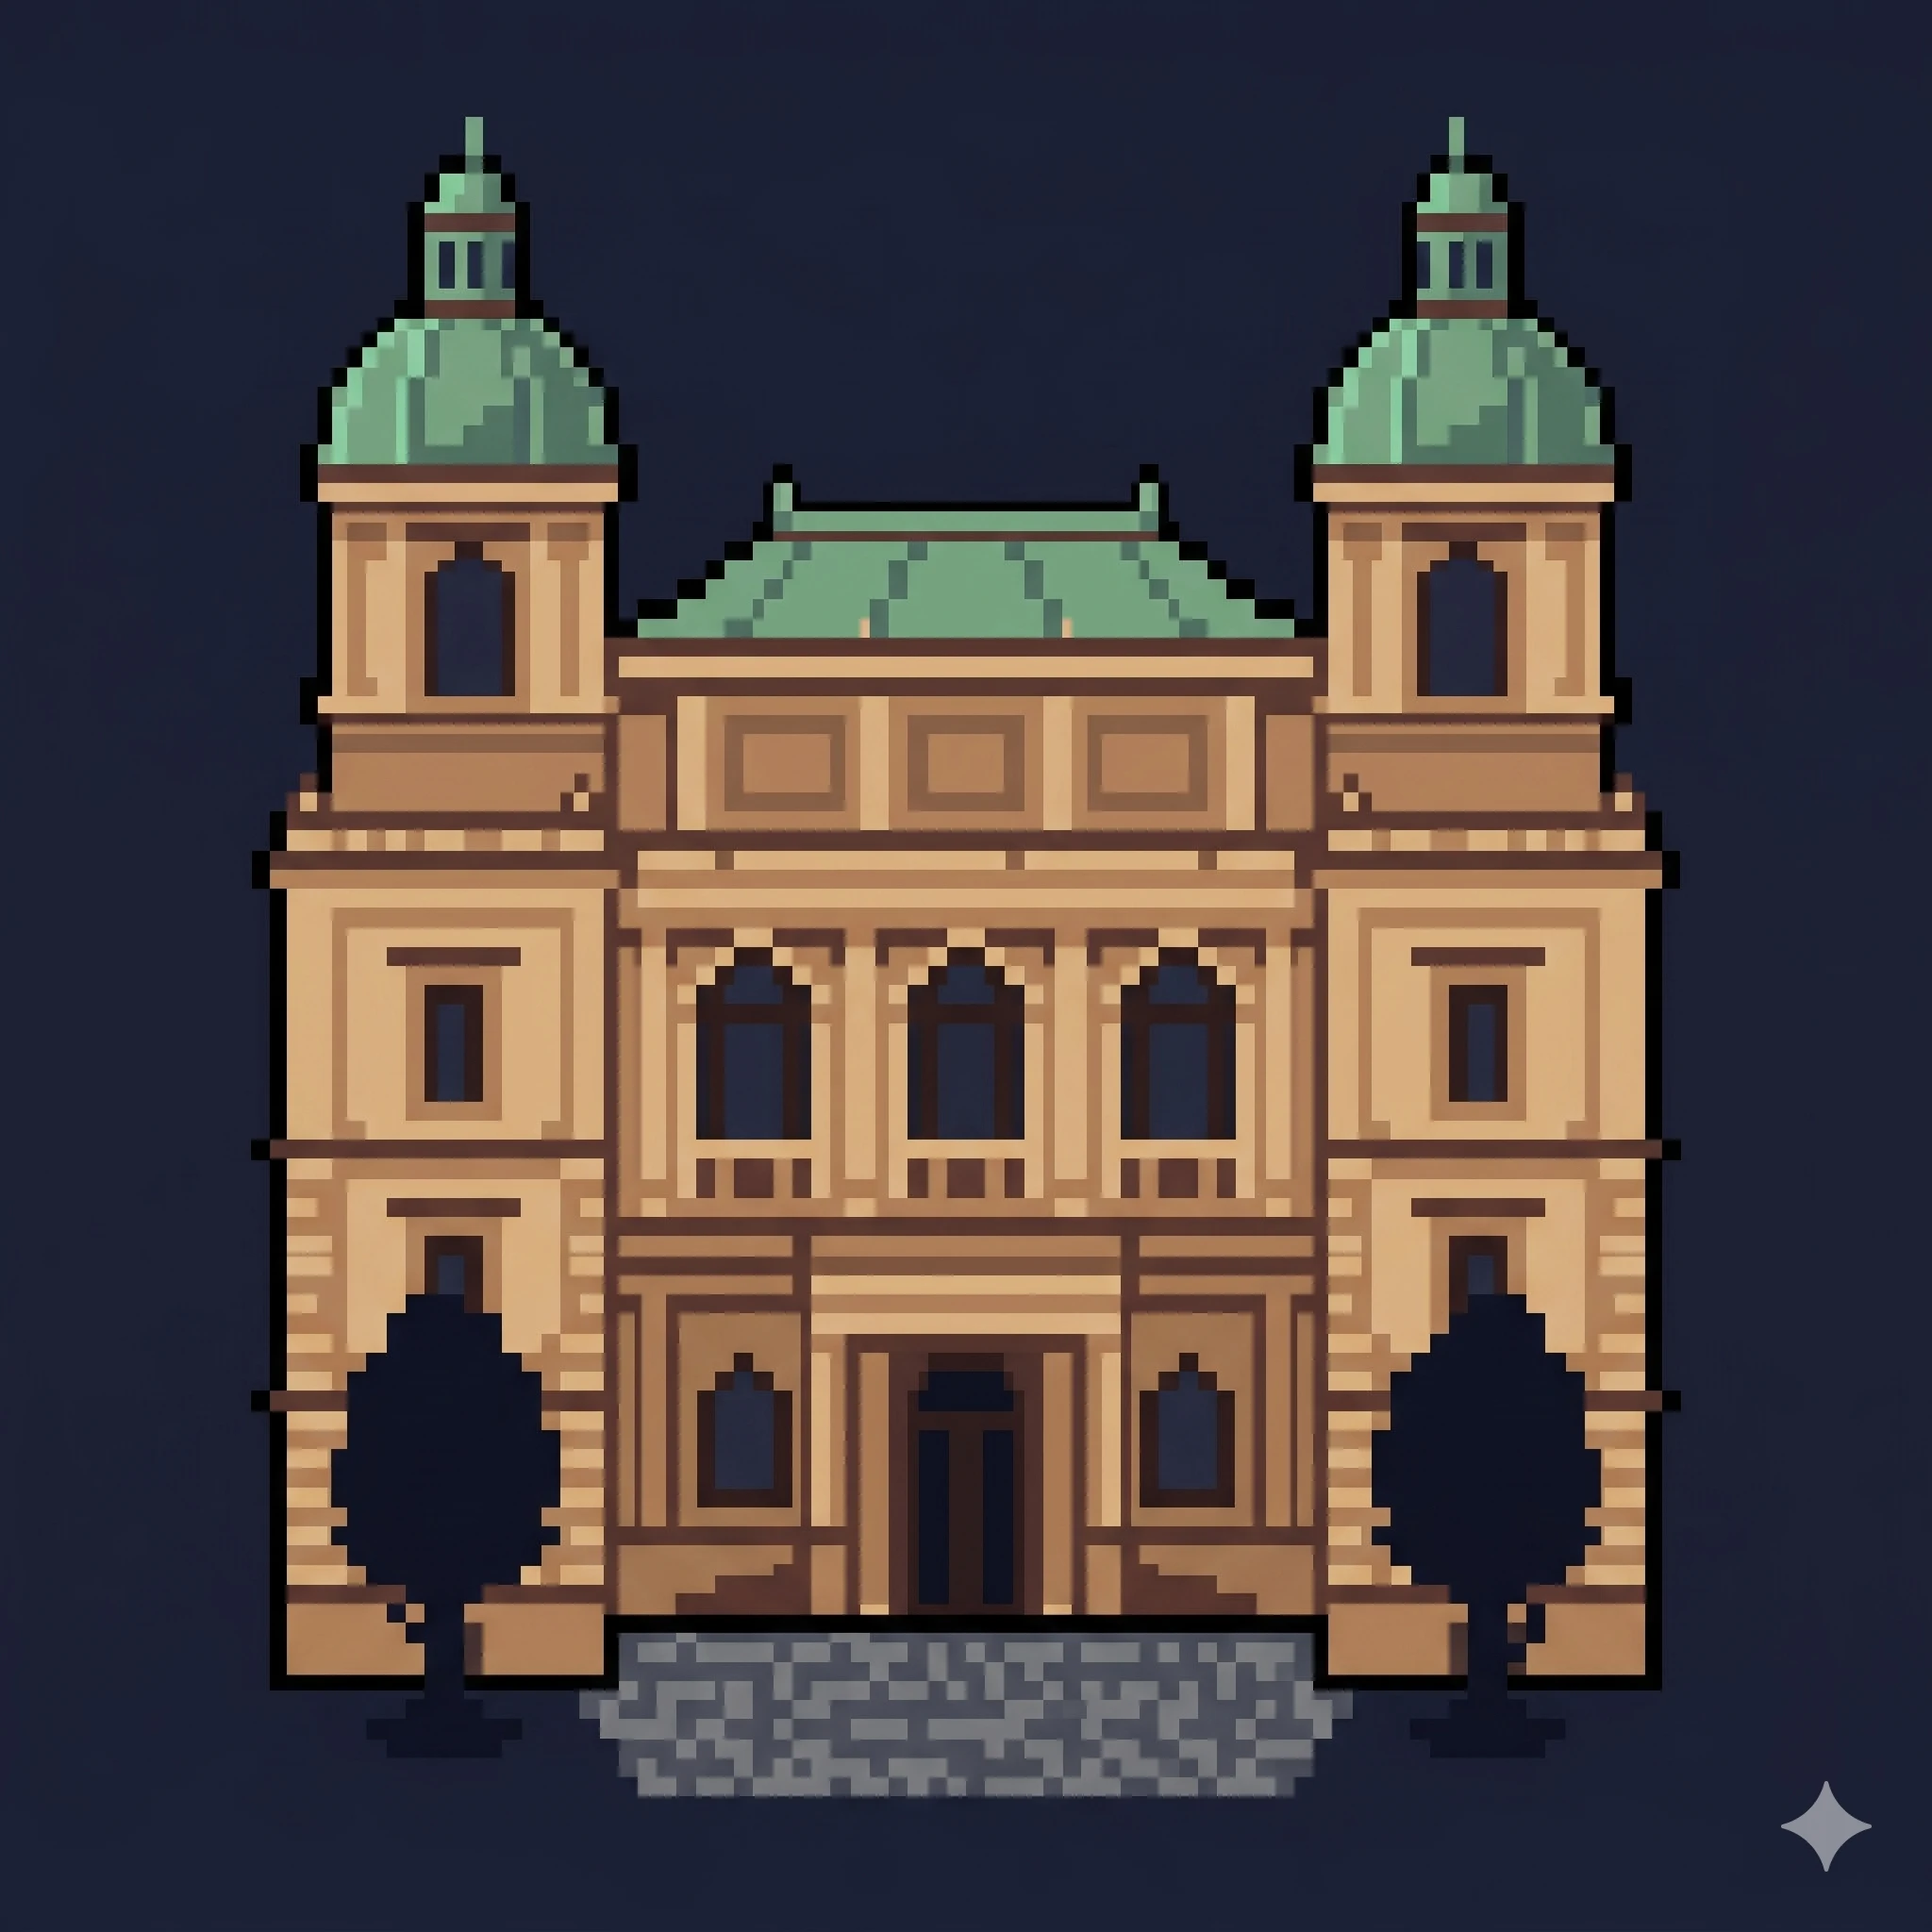
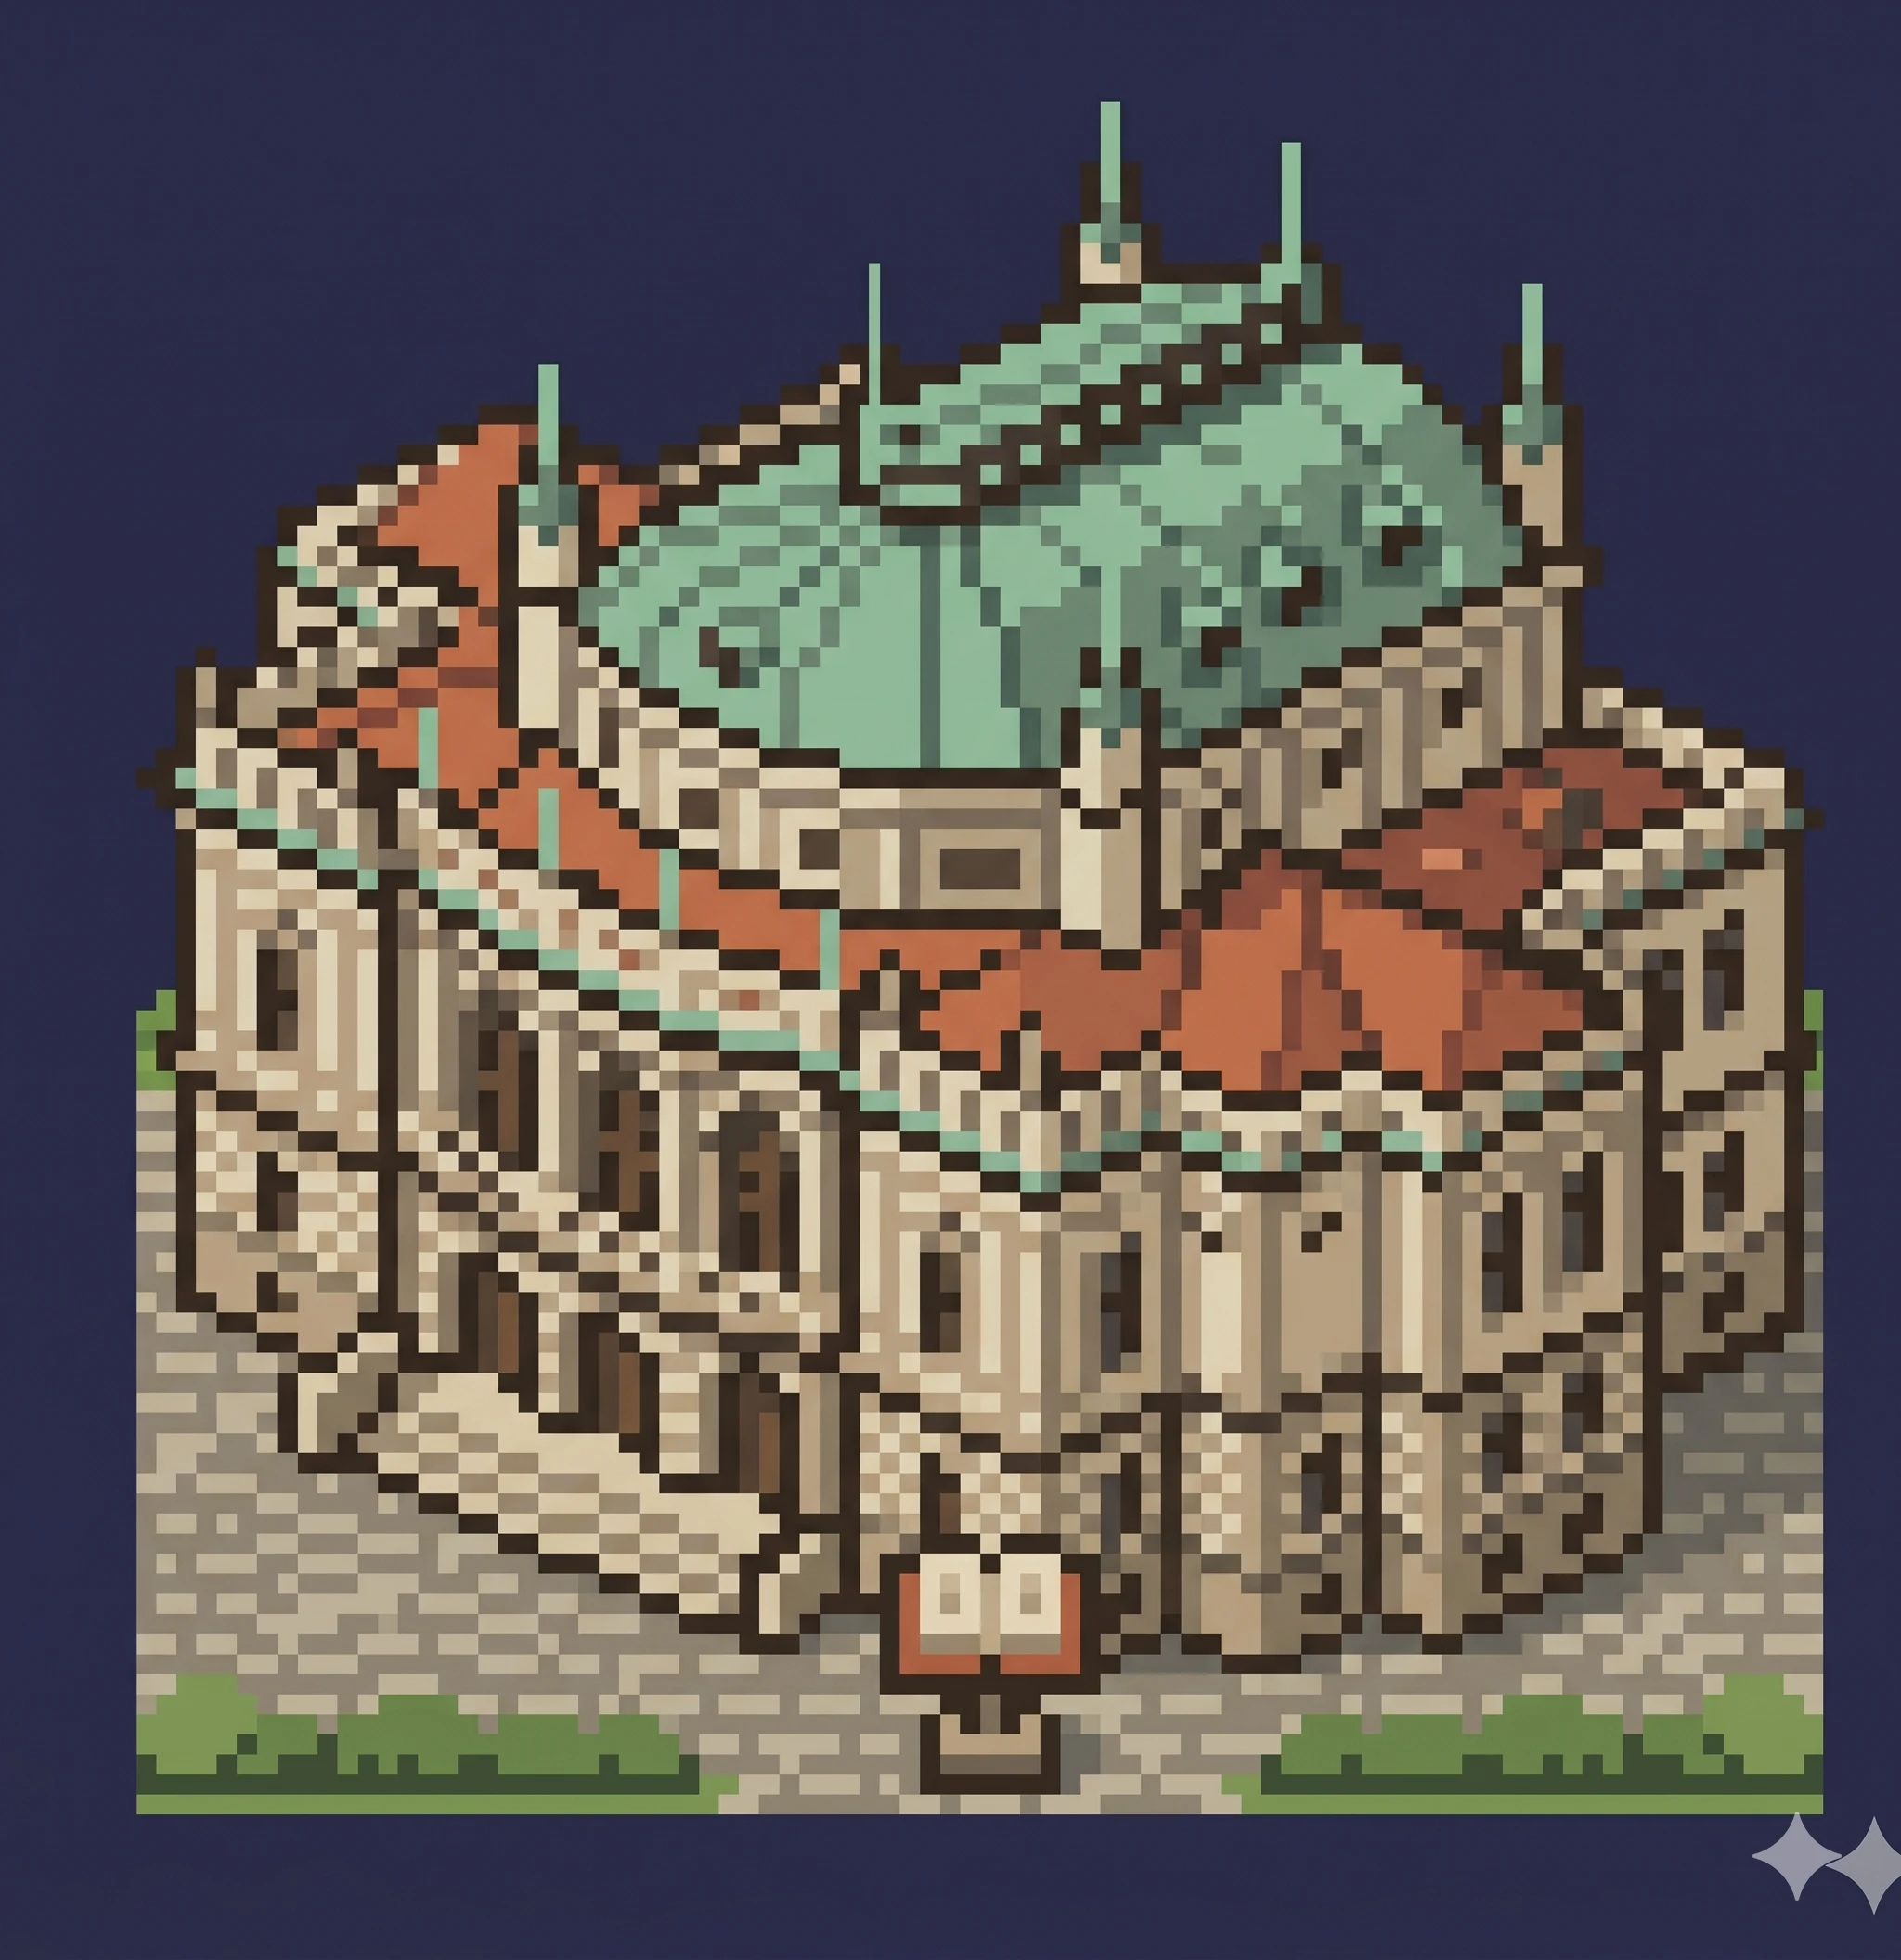
feat: add batch-7 locations, collect UI rename, WebP conversion
- Add 7 new preset locations (batch 7): Nemocnice Motol, Atrium Flora,
  Cafe Louvre, Czech National Bank, Palladium Prague, Charles University
  Faculty of Arts, Lehka nejistota (Michal Trpak umbrella sculpture)
- Full EN/CZ/ZH descriptions, localized names, seeds run
- Rename check-in to collect across all UI and all three languages;
  Discovered filter renamed to My Collections
- Convert all 8 batch-7 pixel art images PNG to WebP (quality 90)
- Bump to v1.1.1; location count updated to 129

diff --git a/server/src/data/seedDescriptionsStatic.js b/server/src/data/seedDescriptionsStatic.js
@@ -856,6 +856,49 @@ const descriptions = {
     cz: `Odvážný průzkumníku, Národní technická knihovna je ten typ budovy, který tě díky pouhému vstupu přiměje cítit se o něco inteligentnějším — nejvyšší poklona, jakou může architektura udělit. Otevřená v roce 2009 na dejvickém kampusu Českého vysokého učení technického, tato skleněno-betonová kostka vrství šest podlaží vědecké a technické literatury uvnitř katedrály uspořádaného vědění. Centrální atrium je tak vysoké, že studenti v něm prý ztratili celé semestry, přirozené světlo nastavené architekty, kteří evidentně měli silné názory na fotony. Odemkni easter egg v suterénu: tunelovací síť pod knihovnou spojuje se širším kampusem ČVUT, což umožňuje skutečně odhodlanému studentovi pohybovat se mezi fakultami zcela pod zemí — achievement tak dokonale typický pro inženýrskou školu, že mohl být schválen jen s velkým nadšením. Navštiv v době zkouškového pro maximální atmosferickou hustotu. Jsi obklopen lidmi budujícími budoucnost. Snaž se je nerušit.`,
     zh: `勇敢的探险家，国家技术图书馆是那种仅凭走进去就能让你感觉稍微聪明一点的建筑——这是建筑所能给予的最高赞美。2009年在捷克技术大学德亚维采校区开放，这座玻璃与混凝土构成的方块在有序知识的殿堂内叠放着六层科技文献。中央中庭高耸入云，据说有学生在其中迷失了整个学期，自然光线由对光子显然有强烈想法的建筑师精心设计。解锁地下室里的彩蛋：图书馆下方的隧道网络与捷克技术大学更广泛的校区相连，使真正专注的学生能够完全在地下穿梭于各学院之间——这一成就如此完美地符合工科学校的气质，以至于只可能以极大的热情获得批准。在考试季节到访，体验最高密度的学术氛围。你被正在构建未来的人们所包围。尽量不要打扰他们。`,
   },
+
+  // ── BATCH 7 ──────────────────────────────────────────────────────────────────
+  'nemocnice-motol': {
+    en: `Brave explorer, Motol University Hospital is the largest hospital complex in the Czech Republic — a city-within-a-city sprawling across Praha 5 that has been patching up the nation since it opened in 1978. With over 2,300 beds and a staff count that rivals a small municipality, Motol handles everything from routine fractures to the kinds of medical emergencies that make other hospitals nervously recommend a second opinion. The campus itself is architecturally ambitious in the way that late-socialist Czechoslovakia did ambitious: enormous, purposeful, and completely indifferent to whether you find it pretty. Hidden-gem status comes not from glamour but from the fact that most people only visit under circumstances they would rather not discuss. Achievement unlocked: you came here voluntarily. That is statistically unusual and deserves +20 XP.`,
+    cz: `Odvážný průzkumníku, Fakultní nemocnice Motol je největším nemocničním komplexem v České republice — město ve městě rozprostírající se po Praze 5, které záplatuje národ od svého otevření v roce 1978. S více než 2 300 lůžky a počtem zaměstnanců soupeřícím s malou obcí se Motol věnuje všemu od běžných zlomenin po ty druhy medicínských emergencí, které způsobují, že jiné nemocnice nervózně doporučují druhý názor. Kampus je architektonicky ambiciózní způsobem, jakým dělalo ambiciózní pozdně socialistické Československo: obrovský, účelný a naprosto lhostejný k tomu, zda ho považuješ za pěkný. Status hidden gem nepramení z okázalosti, ale ze skutečnosti, že většina lidí sem přichází za okolností, o nichž by raději nemluvila. Achievement odemčen: přišel jsi sem dobrovolně. To je statisticky neobvyklé a zaslouží si +20 XP.`,
+    zh: `勇敢的探险家，莫托尔大学医院是捷克共和国最大的医院综合体——布拉格五区一座城中城，自1978年开业以来一直为这个国家缝缝补补。拥有2300余张病床和媲美小型城市的员工数量，莫托尔处理从日常骨折到那些让其他医院紧张地建议再次会诊的紧急医疗状况。院区本身以晚期社会主义捷克斯洛伐克的雄心方式展示着雄心：庞大、实用，且对你是否觉得它好看漠然置之。隐秘宝藏的身份并非来自魅力，而是来自大多数人只在他们宁愿不谈的情况下才会来访这一事实。成就解锁：你是自愿来这里的。这在统计上是不寻常的，值得+20 XP。`,
+  },
+
+  'oc-flora': {
+    en: `Brave explorer, Atrium Flora sits at the crossroads of two great Prague truths: that Vinohrady has excellent metro connections, and that Olšany Cemetery next door is full of people who have run out of errands to run. Opened above the Flora metro station on Line A, this glass-roofed shopping mall offers the full taxonomy of modern retail therapy — fashion, electronics, a multiplex cinema, and a food court where the smell of fast food mingles with mild existential reflection. What makes Flora quietly remarkable is its location: to the north, one of Prague's largest cemeteries spreads across several hectares, lending the mall a contemplative edge that its architects almost certainly did not intend. Recommended approach: buy something frivolous, then take a respectful detour next door to recalibrate your priorities. Achievement unlocked: the circle of consumerism and mortality, all within walking distance.`,
+    cz: `Odvážný průzkumníku, Atrium Flora stojí na křižovatce dvou velkých pražských pravd: že Vinohrady má vynikající metrospojení a že Olšanské hřbitovy hned vedle jsou plné lidí, kteří již nemají žádné pochůzky. Otevřené nad stanicí metra Flora na lince A, toto nákupní centrum s prosklenou střechou nabízí plnou taxonomii moderní obchodní terapie — módu, elektroniku, multikino a food court, kde se vůně fast foodu mísí s mírnou existenciální reflexí. Co Floru tiše pozoruhodnou činí, je její poloha: na severu se rozkládá jeden z největších pražských hřbitovů na několika hektarech, propůjčující obchodnímu centru kontemplatívní nádech, který jeho architekti téměř jistě nezamýšleli. Doporučený přístup: kup si něco zbytečného, pak si udělej uctivou odbočku vedle a přenastavte priority. Achievement odemčen: kruh konzumerismu a smrtelnosti, vše v docházkové vzdálenosti.`,
+    zh: `勇敢的探险家，阿特里乌姆·弗洛拉购物中心位于布拉格两大真理的交汇点：维诺赫拉迪拥有出色的地铁连接，而紧邻的奥尔扎尼公墓则住满了已经没有差事可跑的人。这座建在A线弗洛拉地铁站上方的玻璃顶购物中心提供了现代零售疗法的完整分类——时装、电子产品、多厅影院，以及快餐气味与轻度存在主义沉思交融的美食广场。让弗洛拉悄然不凡的是它的位置：北面，布拉格最大的墓地之一延伸开数公顷，给购物中心带来了其建筑师几乎肯定没有预料到的沉思气质。建议做法：买点无关紧要的东西，然后绕道隔壁进行一次庄重的参观，重新校准你的优先事项。成就解锁：消费主义与死亡轮回，尽在步行距离之内。`,
+  },
+
+  'cafe-louvre': {
+    en: `Brave explorer, Café Louvre has been hosting the great minds and mediocre lunches of Prague since 1902, making it one of the city's most durable cultural institutions — which is saying something in a city that has survived Habsburgs, Nazis, communists, and tourist season. Franz Kafka held court here. Albert Einstein played billiards in the back room (the table survives; his genius, alas, is not on offer). The café was so threatening to the communist regime that it was shut down in 1948 and stayed dark for forty years, which is perhaps the strongest possible endorsement a coffee shop can receive. Re-opened in 1992, it has since returned to its natural state: marble tables, high ceilings, strong coffee, and the comfortable illusion that you are about to have an important idea. Located on Národní třída at number 22, it demands at minimum a schwarzwälder and an hour of your finest unproductive thinking.`,
+    cz: `Odvážný průzkumníku, Café Louvre hostí velké mysli a průměrné obědy Prahy od roku 1902, čímž se řadí mezi nejodolnější kulturní instituce města — což o něčem vypovídá v městě, které přežilo Habsburky, nacisty, komunisty a turistickou sezónu. Franz Kafka zde trůnil. Albert Einstein hrával kulečník v zadním pokoji (stůl přežil; jeho génius bohužel není k dispozici). Kavárna byla pro komunistický režim tak nebezpečná, že byla uzavřena v roce 1948 a zůstala temná čtyřicet let — to je pravděpodobně nejsilnější možná reklama, jaké se kavárně může dostat. Znovuotevřená v roce 1992, od té doby se vrátila do svého přirozeného stavu: mramorové stoly, vysoké stropy, silná káva a pohodlná iluze, že se chystáš mít důležitou myšlenku. Sídlí na Národní třídě číslo 22 a vyžaduje alespoň schwarzwälder a hodinu tvého nejkvalitnějšího neproduktivního přemýšlení.`,
+    zh: `勇敢的探险家，卢浮宫咖啡馆自1902年起便招待着布拉格的伟大思想和平庸午餐，使其成为这座城市最经久不衰的文化机构之一——在一座历经哈布斯堡、纳粹、共产党和旅游旺季的城市里，这说法自有其分量。弗兰茨·卡夫卡曾在此驻守。阿尔伯特·爱因斯坦在后室打台球（那张台球桌流传至今；他的天才，遗憾地说，并不附赠）。这家咖啡馆对共产主义政权如此具有威胁性，以至于1948年被迫关闭，在黑暗中沉寂了四十年——这或许是一家咖啡店所能获得的最有力的背书。1992年重新开业，此后它回归了本来面目：大理石桌，高挑天花板，浓烈咖啡，以及你即将迸发出某个重要想法的舒适幻觉。坐落于国家大街22号，最起码需要一块黑森林蛋糕和一个小时的高质量无用思考。`,
+  },
+
+  'czech-national-bank': {
+    en: `Brave explorer, the Czech National Bank occupies a neoclassical palace on Na Příkopě 28 that radiates the specific authority of an institution that controls how much your morning coffee is worth. Founded in 1919 alongside the First Czechoslovak Republic, the CNB has since managed the koruna through interwar prosperity, Nazi occupation, communist command economy, hyperinflationary chaos, and post-revolution capitalism — a monetary track record that is either impressive or harrowing depending on which decade you lived through. The Easter egg the bank would least expect you to find: the Monetary Museum in the basement is free, open to the public, and contains a surprisingly engaging history of Czech currency from medieval silver coins to present day. Most people walk past the building assuming it contains nothing but spreadsheets. Those people are missing out. Achievement unlocked: you know where the money is.`,
+    cz: `Odvážný průzkumníku, Česká národní banka sídlí v neoklasicistním paláci na Na Příkopě 28, který vyzařuje specifickou autoritu instituce, jež kontroluje, kolik stojí tvoje ranní káva. Založená v roce 1919 spolu s První československou republikou, ČNB od té doby spravovala korunu meziválečnou prosperitou, nacistickou okupací, komunistickou centrálně plánovanou ekonomikou, hyperinflačním chaosem a porevoluční kapitalismus — měnové curriculum vitae, které je buď impozantní nebo děsivé, podle toho, které desetiletí jsi zažil. Easter egg, který by banka nejméně čekala, že najdeš: Monetární muzeum v suterénu je zdarma, otevřené veřejnosti a obsahuje překvapivě poutavou historii české měny od středověkých stříbrných mincí po současnost. Většina lidí prochází kolem budovy v přesvědčení, že neobsahuje nic než tabulky. Tito lidé o něco přicházejí. Achievement odemčen: víš, kde jsou peníze.`,
+    zh: `勇敢的探险家，捷克国家银行占据着那普日科贝28号一座新古典主义宫殿，散发着一个掌控你早晨咖啡价格机构特有的权威感。1919年随第一捷克斯洛伐克共和国一同建立，捷克国家银行此后引导着克朗经历了两次世界大战之间的繁荣、纳粹占领、共产主义计划经济、恶性通货膨胀的混乱和后革命时代的资本主义——一段货币履历，视你经历的是哪个十年，要么令人印象深刻，要么令人不寒而栗。银行最不指望你发现的彩蛋：地下室里的货币博物馆免费向公众开放，收藏着从中世纪银币到今日的捷克货币令人惊讶地引人入胜的历史。大多数人经过这栋建筑时以为里面除了电子表格什么都没有。这些人错过了宝藏。成就解锁：你知道钱在哪里。`,
+  },
+
+  'palladium-prague': {
+    en: `Brave explorer, Palladium Prague opened in 2007 on Náměstí Republiky and promptly became the kind of shopping centre that locals pretend not to enjoy but visit with suspicious regularity. Five floors of retail therapy sit inside what was once the Josefov Barracks — a 19th-century military complex whose soldiers could not have predicted that their parade ground would one day be occupied by a Zara and a food court. The real Easter egg is underfoot: during construction, workers uncovered medieval archaeological remains that the developers were legally obligated to preserve. A glass panel in the floor of the shopping centre now looks down onto actual medieval stonework, meaning you can stand in the middle of a modern mall and peer directly into the 13th century. Achievement unlocked: you found history beneath the H&M. That is not a sentence that gets written often.`,
+    cz: `Odvážný průzkumníku, Palladium Praha otevřelo v roce 2007 na Náměstí Republiky a okamžitě se stalo tím druhem nákupního centra, který místní předstírají, že si neužívají, ale navštěvují ho s podezřelou pravidelností. Pět podlaží obchodní terapie sídlí uvnitř toho, co bylo kdysi Josefovskými kasárnami — vojenský komplex z 19. století, jehož vojáci nemohli předvídat, že jejich cvičiště bude jednoho dne obsazeno Zarou a food courtem. Skutečný Easter egg je pod nohama: při výstavbě dělníci odhalili středověké archeologické pozůstatky, které byli developeři právně povinni zachovat. Skleněný panel v podlaze nákupního centra nyní hledí dolů na skutečné středověké zdivo, což znamená, že můžeš stát uprostřed moderního obchodního centra a hledět přímo do 13. století. Achievement odemčen: našel jsi historii pod H&M. To není věta, která se píše příliš často.`,
+    zh: `勇敢的探险家，布拉格帕拉迪乌姆购物中心2007年在共和国广场开业，随即成为那种本地人假装不享受但以令人怀疑的频率造访的购物中心。五层的零售疗法坐落在曾经的约瑟夫兵营内——一座19世纪军事综合体，其士兵们无论如何也预测不到他们的操场有朝一日会被一家Zara和美食广场占领。真正的彩蛋在脚下：施工期间，工人们挖掘出了中世纪考古遗迹，开发商依法有义务予以保存。购物中心地板上的一块玻璃面板现在俯视着真实的中世纪石砌建筑，意味着你可以站在现代商场中央，直接凝视13世纪。成就解锁：你在H&M下方发现了历史。这样的句子并不常被写下来。`,
+  },
+
+  'faculty-of-arts-uk': {
+    en: `Brave explorer, the Faculty of Arts of Charles University stands on Náměstí Jana Palacha — a square named for the student who set himself on fire here in 1969 to protest the Soviet occupation, which gives you some indication of the weight this place carries. Founded as part of Charles University in 1348, making it one of the oldest humanities faculties in Central Europe, it has educated writers, philosophers, linguists, and dissidents across seven centuries with the quiet conviction that ideas are worth defending. On 21 December 2023, a student named David Kozák opened fire in the building, killing 14 people and injuring 25 in the deadliest mass shooting in Czech history since 1993. Eight of the victims were students from the Deaf Studies programme. The faculty did not close. It is still teaching. The courage required to return to a place like this is not a small thing. Check in with respect. Achievement unlocked: you stood where history was made and where people refused to let it end there.`,
+    cz: `Odvážný průzkumníku, Filozofická fakulta Univerzity Karlovy stojí na Náměstí Jana Palacha — náměstí pojmenovaném po studentovi, který se zde v roce 1969 upálil na protest proti sovětské okupaci, což naznačuje, jakou tíhu toto místo nese. Založená jako součást Karlovy univerzity v roce 1348, čímž se řadí mezi nejstarší humanitní fakulty ve střední Evropě, vzdělávala spisovatele, filozofy, lingvisty a disidenty napříč sedmi staletími s tichým přesvědčením, že myšlenky stojí za obranu. 21. prosince 2023 student jménem David Kozák zahájil střelbu v budově, zabil 14 lidí a zranil 25 v nejsmrtelnější masové střelbě v české historii od roku 1993. Osm obětí byli studenti oboru Čeština v komunikaci neslyšících. Fakulta se nezavřela. Stále učí. Odvaha potřebná k návratu na takové místo není malá věc. Přijď s úctou. Achievement odemčen: stál jsi tam, kde se psaly dějiny, a kde lidé odmítli nechat je tam skončit.`,
+    zh: `勇敢的探险家，查理大学哲学系坐落于扬·帕拉赫广场——这个广场以1969年在此自焚抗议苏联占领的学生命名，这让你明白这个地方承载着怎样的分量。作为查理大学的一部分创建于1348年，是中欧最古老的人文学院之一，七个世纪以来以对思想值得捍卫的静默信念培养了作家、哲学家、语言学家和异见人士。2023年12月21日，一名叫大卫·科扎克的学生在楼内开枪，杀死14人，伤及25人，成为捷克1993年以来最惨烈的大规模枪击事件。其中八名遇难者是聋人研究专业的学生。学院没有关闭。它仍在教学。回到这样的地方所需的勇气绝非小事。带着尊重来签到。成就解锁：你站在了历史书写之处，也站在了人们拒绝让历史就此终结之处。`,
+  },
+
+  'lehka-nejistota': {
+    en: `Brave explorer, Lehká nejistota — Czech for "Slight Uncertainty" — is not a place you enter so much as a place you look up at and reconsider your life choices. Created by Czech sculptor Michal Trpák in 2015, this bronze figure of a suited businessman clutching an open umbrella hangs suspended above the street at Na Zbořenci in Praha 2, near the Mosaic House building. The umbrella does not appear to be providing meaningful structural support, yet the man looks remarkably composed about the whole situation. Trpák installed the piece as a meditation on the precariousness of modern life — the sensation that we are all suspended in mid-air, held up by things we do not fully understand, wearing business attire just in case anyone is watching. Neighbouring sculpture at Odborů features a female counterpart in an equally improbable aeronautical position. Achievement unlocked: you looked up while everyone else looked at their phones. That is the whole point of public art.`,
+    cz: `Odvážný průzkumníku, Lehká nejistota — dílo českého sochaře Michala Trpáka z roku 2015 — není místo, do kterého vstoupíš, ale místo, na které se podíváš vzhůru a přehodnotíš svá životní rozhodnutí. Tato bronzová postava muže v obleku svírající otevřený deštník visí nad ulicí Na Zbořenci v Praze 2, nedaleko Mosaic House. Deštník zjevně neposkytuje přesvědčivou strukturální podporu, přesto muž působí pozoruhodně klidně ohledně celé situace. Trpák dílo vytvořil jako meditaci o nestabilitě moderního života — pocit, že všichni visíme ve vzduchu, drženi věcmi, kterým úplně nerozumíme, v obchodním oděvu pro případ, že se někdo dívá. Sousední socha na Odborů ukazuje ženský protějšek v obdobně nepravděpodobné aeronautické pozici. Achievement odemčen: podíval ses nahoru, zatímco všichni ostatní koukali do telefonů. To je celý smysl veřejného umění.`,
+    zh: `勇敢的探险家，"Lehká nejistota"——捷克语意为"轻微的不确定性"——与其说是一个你走进去的地方，不如说是一个让你抬头仰望、重新思考人生选择的地方。2015年由捷克雕塑家米哈尔·特尔帕克创作，这尊身着西装、手握打开的雨伞的铜质商人雕像悬挂在布拉格二区娜兹博尔斯尼街上空（摩赛克之家建筑附近）。那把雨伞看起来并没有提供什么有意义的结构支撑，然而那个男人对整件事显得出奇地淡定。特尔帕克创作此作品是对现代生活不稳定性的沉思——那种我们都悬浮在半空中、被我们并不完全理解的东西支撑着、穿着正装以防有人在看的感觉。邻近奥德博鲁街上的另一尊雕塑展示了女性对应角色，同样处于令人难以置信的飞行姿态。成就解锁：当所有人都盯着手机时，你抬起了头。这就是公共艺术的全部意义。`,
+  },
 };
 
 async function seedDescriptionsStatic() {

diff --git a/client/src/context/LanguageContext.jsx b/client/src/context/LanguageContext.jsx
@@ -12,7 +12,7 @@ const T = {
     'explore.addLocation': '+ Add Location',
     'grid.searchPlaceholder': 'Search locations...',
     'grid.filterAll': '★ All',
-    'grid.filterDiscovered': '✓ Discovered',
+    'grid.filterDiscovered': '✓ My Collections',
     'grid.showing': 'showing',
     'grid.noResults': 'No locations found.',
     'cat.all': 'All',
@@ -33,14 +33,14 @@ const T = {
     'map.clickMarker': 'Click a marker to explore',
     'map.legend': '● Gold = unlocked  ·  ● Grey = locked',
     'common.loading': 'Loading...',
-    'common.visited': '✓ VISITED',
+    'common.visited': '✓ COLLECTED',
     'common.noDesc': 'Description not yet available.',
     'common.wikipedia': '📖 Wikipedia',
     'common.googleMaps': '🗺 Navigate on Google Maps',
     'proximity.title': '★ Discovery!',
-    'proximity.prompt': 'You discovered {name}! Check in now?',
-    'common.checkIn': '★ Check In',
-    'common.undoVisit': '✕ Undo Visit',
+    'proximity.prompt': 'You found {name}! Collect now?',
+    'common.checkIn': '★ Collect',
+    'common.undoVisit': '✕ Uncollect',
     'common.undo': '✕ Undo',
     'common.locked': 'LOCKED',
     'common.cancel': 'Cancel',
@@ -81,7 +81,7 @@ const T = {
     'explore.addLocation': '+ Přidat Místo',
     'grid.searchPlaceholder': 'Hledat místa...',
     'grid.filterAll': '★ Vše',
-    'grid.filterDiscovered': '✓ Navštíveno',
+    'grid.filterDiscovered': '✓ Moje sbírka',
     'grid.showing': 'zobrazeno',
     'grid.noResults': 'Žádná místa nenalezena.',
     'cat.all': 'Vše',
@@ -102,14 +102,14 @@ const T = {
     'map.clickMarker': 'Klikni na značku pro průzkum',
     'map.legend': '● Zlatá = navštíveno  ·  ● Šedá = zamčeno',
     'common.loading': 'Načítám...',
-    'common.visited': '✓ NAVŠTÍVENO',
+    'common.visited': '✓ SESBÍRÁNO',
     'common.noDesc': 'Popis zatím není k dispozici.',
     'common.wikipedia': '📖 Wikipedie',
     'common.googleMaps': '🗺 Navigace v Mapách Google',
     'proximity.title': '★ Objev!',
-    'proximity.prompt': 'Objevil jsi {name}! Přihlásit se?',
-    'common.checkIn': '★ Přihlásit se',
-    'common.undoVisit': '✕ Zrušit návštěvu',
+    'proximity.prompt': 'Našel jsi {name}! Sbírat nyní?',
+    'common.checkIn': '★ Sbírat',
+    'common.undoVisit': '✕ Odebrat',
     'common.undo': '✕ Zrušit',
     'common.locked': 'UZAMČENO',
     'common.cancel': 'Zrušit',
@@ -150,7 +150,7 @@ const T = {
     'explore.addLocation': '+ 添加地点',
     'grid.searchPlaceholder': '搜索地点...',
     'grid.filterAll': '★ 全部',
-    'grid.filterDiscovered': '✓ 已发现',
+    'grid.filterDiscovered': '✓ 我的收藏',
     'grid.showing': '显示',
     'grid.noResults': '未找到任何地点。',
     'cat.all': '全部',
@@ -171,14 +171,14 @@ const T = {
     'map.clickMarker': '点击标记探索地点',
     'map.legend': '● 金色 = 已解锁  ·  ● 灰色 = 已锁定',
     'common.loading': '加载中...',
-    'common.visited': '✓ 已访问',
+    'common.visited': '✓ 已收藏',
     'common.noDesc': '暂无描述。',
     'common.wikipedia': '📖 维基百科',
     'common.googleMaps': '🗺 在Google地图上导航',
     'proximity.title': '★ 发现！',
-    'proximity.prompt': '你发现了{name}！现在打卡？',
+    'proximity.prompt': '你发现了{name}！现在收藏？',
     'common.checkIn': '★ 打卡',
-    'common.undoVisit': '✕ 撤销访问',
+    'common.undoVisit': '✕ 取消收藏？',
     'common.undo': '✕ 撤销',
     'common.locked': '已锁定',
     'common.cancel': '取消',

diff --git a/server/src/data/seedLocalizedNames.js b/server/src/data/seedLocalizedNames.js
@@ -167,6 +167,15 @@ const names = {
   'strahov-stadium':            { cz: 'Velký strahovský stadion',            zh: '斯特拉霍夫大球场' },
   'staromestska-vodarenska-vez':{ cz: 'Staroměstská vodárenská věž',         zh: '旧城水塔' },
   'narodni-technicka-knihovna': { cz: 'Národní technická knihovna',          zh: '国家技术图书馆' },
+
+  // ── BATCH 7 ──────────────────────────────────────────────────────────────────
+  'nemocnice-motol':            { cz: 'Fakultní nemocnice Motol',            zh: '莫托尔大学医院' },
+  'oc-flora':                   { cz: 'Atrium Flora',                        zh: '弗洛拉购物中心' },
+  'cafe-louvre':                { cz: 'Café Louvre',                         zh: '卢浮宫咖啡馆' },
+  'czech-national-bank':        { cz: 'Česká národní banka',                 zh: '捷克国家银行' },
+  'palladium-prague':           { cz: 'Palladium Praha',                     zh: '布拉格帕拉迪乌姆' },
+  'faculty-of-arts-uk':         { cz: 'Filozofická fakulta UK',              zh: '查理大学哲学系' },
+  'lehka-nejistota':            { cz: 'Lehká nejistota',                     zh: '轻微的不确定性' },
 };
 
 async function seedLocalizedNames() {

diff --git a/server/src/data/seedNewLocations.js b/server/src/data/seedNewLocations.js
@@ -51,6 +51,14 @@ const newLocations = [
   { name: 'Great Strahov Stadium', slug: 'strahov-stadium', category: 'historical', coordinates: { lat: 50.0793, lng: 14.3820 }, wikipediaUrl: 'https://en.wikipedia.org/wiki/Strahov_Stadium', pixelArtKey: 'mega-stadium', xpReward: 30, difficulty: 2 },
   { name: 'Staroměstská vodárenská věž', slug: 'staromestska-vodarenska-vez', category: 'historical', coordinates: { lat: 50.0864, lng: 14.4147 }, wikipediaUrl: 'https://cs.wikipedia.org/wiki/Starom%C4%9Bstsk%C3%A1_vod%C3%A1rensk%C3%A1_v%C4%9B%C5%BE', pixelArtKey: 'water-tower-old', xpReward: 20, difficulty: 1 },
   { name: 'Národní technická knihovna', slug: 'narodni-technicka-knihovna', category: 'cultural', coordinates: { lat: 50.1047, lng: 14.3893 }, wikipediaUrl: 'https://en.wikipedia.org/wiki/National_Technical_Library_(Prague)', pixelArtKey: 'technical-library', xpReward: 15, difficulty: 1 },
+  // New batch 7
+  { name: 'Nemocnice Motol', slug: 'nemocnice-motol', category: 'hidden-gem', coordinates: { lat: 50.0741, lng: 14.3411 }, wikipediaUrl: 'https://en.wikipedia.org/wiki/Motol_University_Hospital', pixelArtKey: 'hospital-complex', xpReward: 20, difficulty: 2 },
+  { name: 'Atrium Flora', slug: 'oc-flora', category: 'entertainment', coordinates: { lat: 50.0776, lng: 14.4612 }, wikipediaUrl: 'https://en.wikipedia.org/wiki/Flora_(Prague_Metro)', pixelArtKey: 'glass-mall', xpReward: 15, difficulty: 1 },
+  { name: 'Café Louvre', slug: 'cafe-louvre', category: 'entertainment', coordinates: { lat: 50.0821, lng: 14.4186 }, wikipediaUrl: 'https://en.wikipedia.org/wiki/Caf%C3%A9_Louvre', pixelArtKey: 'grand-cafe', xpReward: 20, difficulty: 1 },
+  { name: 'Czech National Bank', slug: 'czech-national-bank', category: 'historical', coordinates: { lat: 50.0866, lng: 14.4285 }, wikipediaUrl: 'https://en.wikipedia.org/wiki/Czech_National_Bank', pixelArtKey: 'national-bank', xpReward: 20, difficulty: 2 },
+  { name: 'Palladium Prague', slug: 'palladium-prague', category: 'entertainment', coordinates: { lat: 50.0892, lng: 14.4286 }, wikipediaUrl: 'https://en.wikipedia.org/wiki/Palladium_(Prague)', pixelArtKey: 'grand-shopping-mall', xpReward: 15, difficulty: 1 },
+  { name: 'Charles University Faculty of Arts', slug: 'faculty-of-arts-uk', category: 'historical', coordinates: { lat: 50.0889, lng: 14.4158 }, wikipediaUrl: 'https://en.wikipedia.org/wiki/Faculty_of_Arts,_Charles_University', pixelArtKey: 'university-hall', xpReward: 30, difficulty: 3 },
+  { name: 'Lehká nejistota', slug: 'lehka-nejistota', category: 'hidden-gem', coordinates: { lat: 50.0737, lng: 14.4163 }, wikipediaUrl: 'https://www.michaltrpak.com/en/portfolio/slight-uncertainty-exterior/', pixelArtKey: 'umbrella-man', xpReward: 20, difficulty: 2 },
 ];
 
 async function run() {

diff --git a/client/src/components/locations/LocationDetail.jsx b/client/src/components/locations/LocationDetail.jsx
@@ -185,7 +185,7 @@ export default function LocationDetail({ slug, onClose, onCheckIn, onUndo, onDel
                   {checkInResult ? (
                     <div style={{ textAlign: 'center', minWidth: 160 }}>
                       <p style={{ fontFamily: "'Press Start 2P'", fontSize: 9, color: '#8eff8e', marginBottom: 8, letterSpacing: 1 }}>
-                        CHECKED IN!
+                        COLLECTED!
                       </p>
                       <p style={{ fontFamily: "'Press Start 2P'", fontSize: 8, color: 'var(--gold)' }}>
                         +{checkInResult.xpEarned} XP

diff --git a/CHANGELOG.md b/CHANGELOG.md
@@ -4,6 +4,34 @@ All notable changes to Prague Stories are documented here.
 
 ---
 
+## [1.1.1] — 2026-06-21
+
+**UI: rename check-in to collect; convert batch-7 pixel art to WebP**
+
+- "Check In" button renamed to "Collect" (EN), "Sbírat" (CZ), "打卡" (ZH — kept colloquial)
+- "Undo Visit" renamed to "Uncollect" (EN), "Odebrat" (CZ), "取消收藏？" (ZH)
+- "✓ Discovered" filter renamed to "✓ My Collections" / "✓ Moje sbírka" / "✓ 我的收藏"
+- "✓ VISITED" badge renamed to "✓ COLLECTED" / "✓ SESBÍRÁNO" / "✓ 已收藏"
+- "CHECKED IN!" success overlay renamed to "COLLECTED!"
+- Converted all 8 batch-7 pixel art images from PNG to WebP (quality 90): cafe-louvre, czech-national-bank, faculty-of-arts-uk, lehka-nejistota, nemocnice-motol, oc-flora, palladium-prague, rudolfinum
+
+---
+
+## [1.1.0] — 2026-06-21
+
+**Add 7 new preset locations (batch 7)**
+
+- Nemocnice Motol (hidden-gem, 20 XP) — Czech Republic's largest hospital; Praha 5, opened 1978; 2,300+ beds
+- Atrium Flora (entertainment, 15 XP) — glass-roofed mall above Flora metro A; next to Olšany Cemetery
+- Café Louvre (entertainment, 20 XP) — Prague institution since 1902; Kafka, Einstein, billiard room, communist closure 1948–1992
+- Czech National Bank (historical, 20 XP) — neoclassical palace on Na Příkopě; free Monetary Museum in basement
+- Palladium Prague (entertainment, 15 XP) — 2007 mall in former Josefov Barracks; medieval stonework visible through floor panel
+- Charles University Faculty of Arts (historical, 30 XP) — 1348 faculty on Náměstí Jana Palacha; 21 Dec 2023 shooting commemorated
+- Lehká nejistota (hidden-gem, 20 XP) — Michal Trpák's 2015 bronze businessman suspended by umbrella above Na Zbořenci, Praha 2
+- All 7 have full EN/CZ/ZH descriptions (gamified, humorous RPG style), localizedNames, coordinates, and pixelArtKey
+
+---
+
 ## [1.0.9] — 2026-06-21
 
 **Detail modal image now 1:1 square; batch-6 pixel art converted to WebP**

diff --git a/README.md b/README.md
@@ -2,19 +2,19 @@
 
 A gamified city exploration diary for Prague — built with the MERN stack.
 
-Unlock 136 real Prague landmarks, earn XP, collect achievements, and read trilingual descriptions in English, Czech, and Chinese.
+Unlock 129 real Prague landmarks, earn XP, collect achievements, and read trilingual descriptions in English, Czech, and Chinese.
 
 ## Features
 
 - JWT authentication (register / login)
-- 136 preset Prague landmarks across 5 categories
+- 129 preset Prague landmarks across 5 categories
 - Check in to locations to unlock them and earn XP
 - Add, edit, and delete custom locations
 - Gamified dashboard: explorer level, XP bar, unlock %, 10 achievements
 - Interactive Leaflet map with locked/unlocked markers
 - AI-generated descriptions via Gemini API (EN / CZ / ZH)
 - Full UI localisation: English, Czech, and Chinese (ZH/EN/CZ toggle)
-- Localized place names — Czech and Chinese names for all 136 locations
+- Localized place names — Czech and Chinese names for all 129 locations
 - Pixel art retro UI with [Ark Pixel Font](https://github.com/TakWolf/ark-pixel-font) in Chinese mode
 - Geolocation-based check-in — must be within 200m of the location to check in
 - Google Maps navigation link on every location (opens turn-by-turn directions)
@@ -23,7 +23,7 @@ Unlock 136 real Prague landmarks, earn XP, collect achievements, and read trilin
 - Check-in success overlay: shows "CHECKED IN!", XP earned, and any unlocked achievements for 2.5 s before the modal auto-closes
 - Explore grid refreshes instantly after check-in without waiting for the modal to close
 - Explore grid sorts cards by proximity to the user's current GPS position (closest first), with live distance shown on each card ("340 m", "1.2 km")
-- 123 preset Prague locations across 5 categories (expanded in batch 6)
+- 129 preset Prague locations across 5 categories (expanded through batch 7)
 - 117 Gemini-generated pixel art images — every original location card has a unique illustration, served as lossy WebP (quality 90)
 
 ## Stack
@@ -56,7 +56,7 @@ cp server/.env.example server/.env
 # Edit server/.env and fill in:
 #   MONGO_URI, JWT_SECRET, GEMINI_API_KEY
 
-# 3. Seed the 136 Prague locations
+# 3. Seed the 129 Prague locations
 cd server && npm run seed && npm run seed:new
 
 # 4. Seed trilingual descriptions and localized names
@@ -92,7 +92,7 @@ prague-stories/
         ├── routes/       # /api/auth, /api/locations, /api/checkins, /api/user
         ├── controllers/  # Business logic
         ├── services/     # geminiService, gamification
-        └── data/         # 136 preset locations, seed scripts
+        └── data/         # 129 preset locations, seed scripts
 ```
 
 ## API Overview
@@ -136,6 +136,20 @@ NODE_ENV=development
 ```
 
 ## Changelog
+
+### [1.1.1] — 2026-06-21
+
+**UI: rename check-in to collect; convert batch-7 pixel art to WebP**
+
+- "Check In" → "Collect" (EN), "Sbírat" (CZ), "打卡" (ZH); filter "Discovered" → "My Collections"
+- All 8 batch-7 pixel art images converted from PNG to WebP (quality 90)
+
+### [1.1.0] — 2026-06-21
+
+**Add 7 new preset locations (batch 7)**
+
+- Nemocnice Motol, Atrium Flora, Café Louvre, Czech National Bank, Palladium Prague, Charles University Faculty of Arts, Lehká nejistota (Michal Trpák sculpture)
+- All 7 fully attributed: coordinates, categories, XP/difficulty, EN/CZ/ZH descriptions and localized names
 
 ### [1.0.9] — 2026-06-21
 